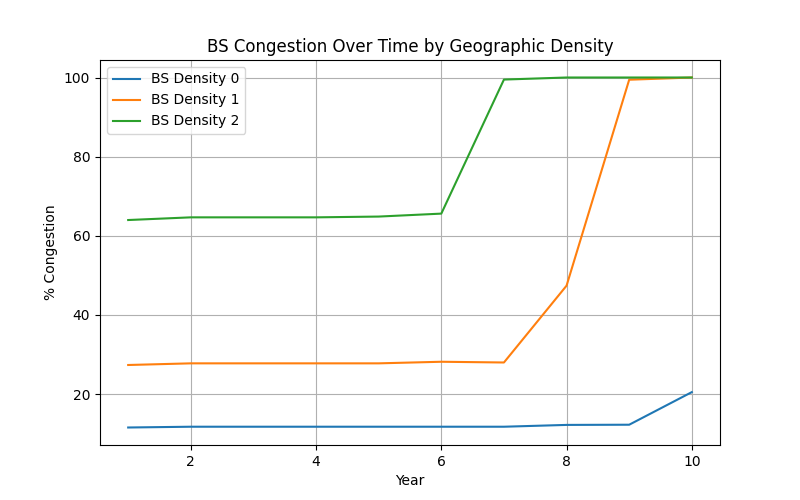
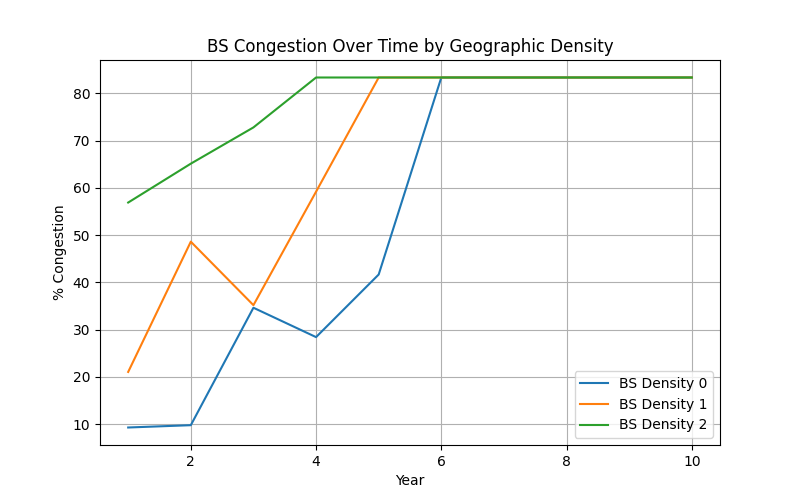
plots

diff --git a/config.py b/config.py
@@ -4,7 +4,7 @@
 D_w = 3  
 D_c = 2.2
 
-NUM_YEARS = 1
+NUM_YEARS = 10
 NUM_DAYS = 3
 
 traffic_demand_bounds = {
